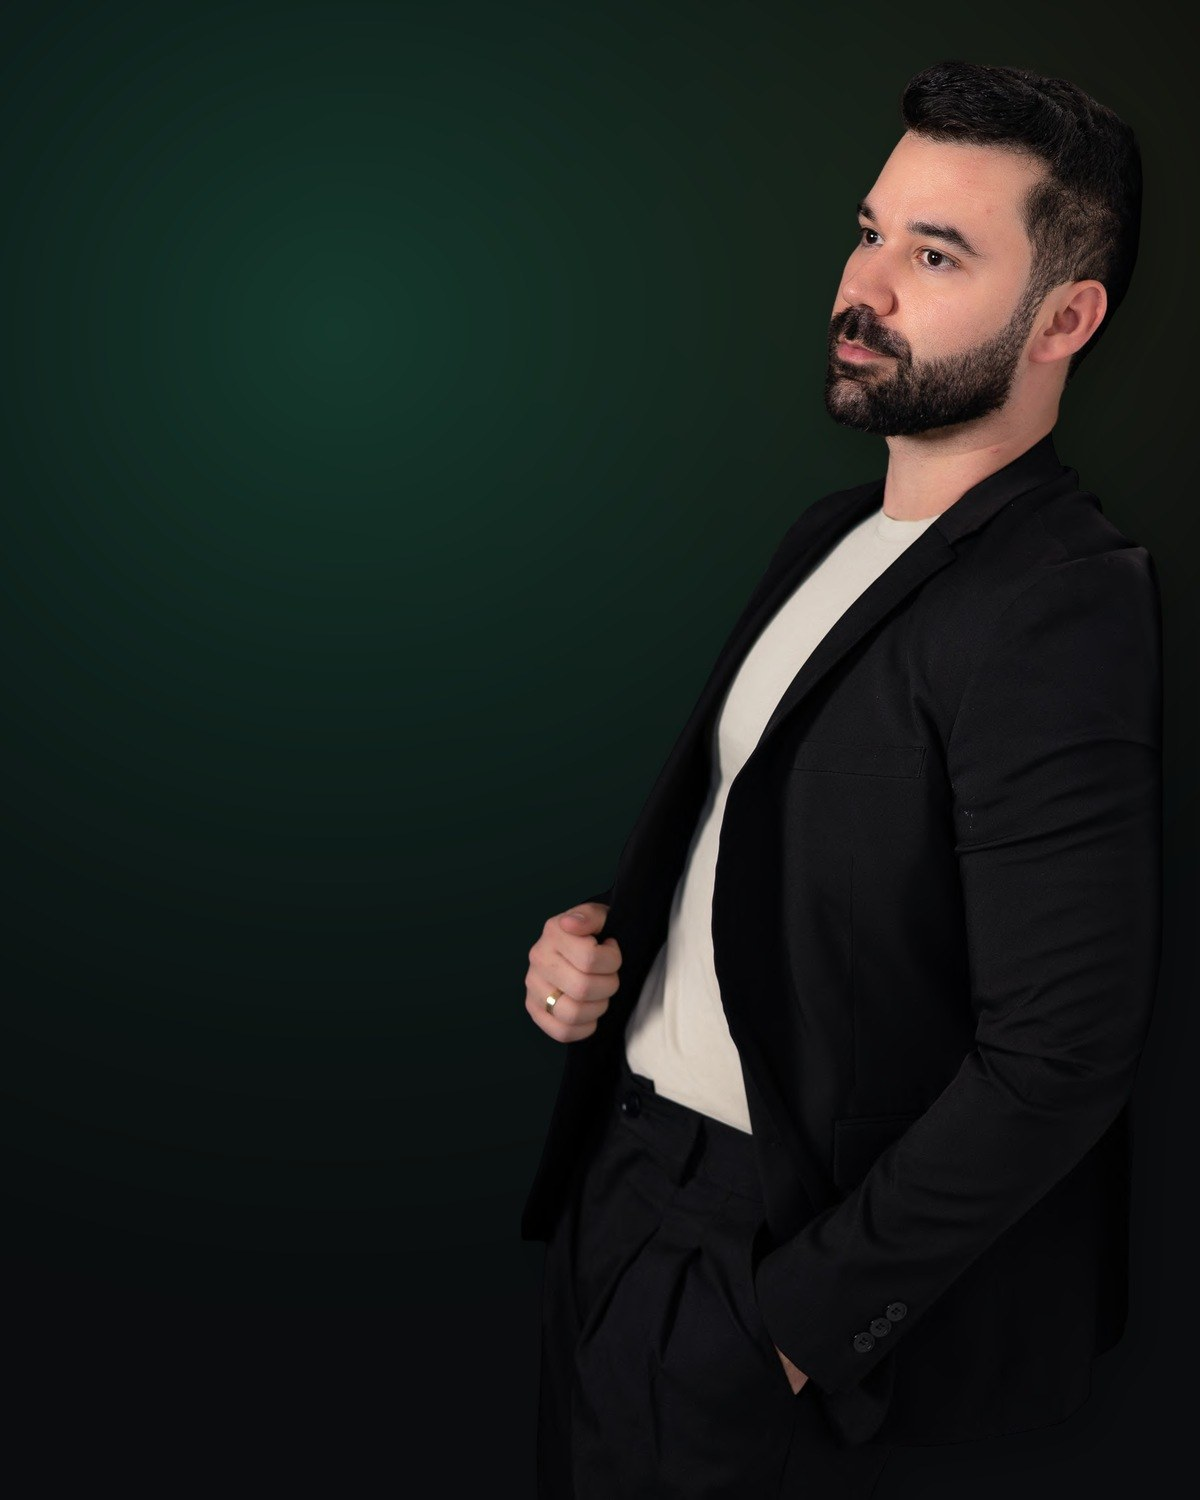
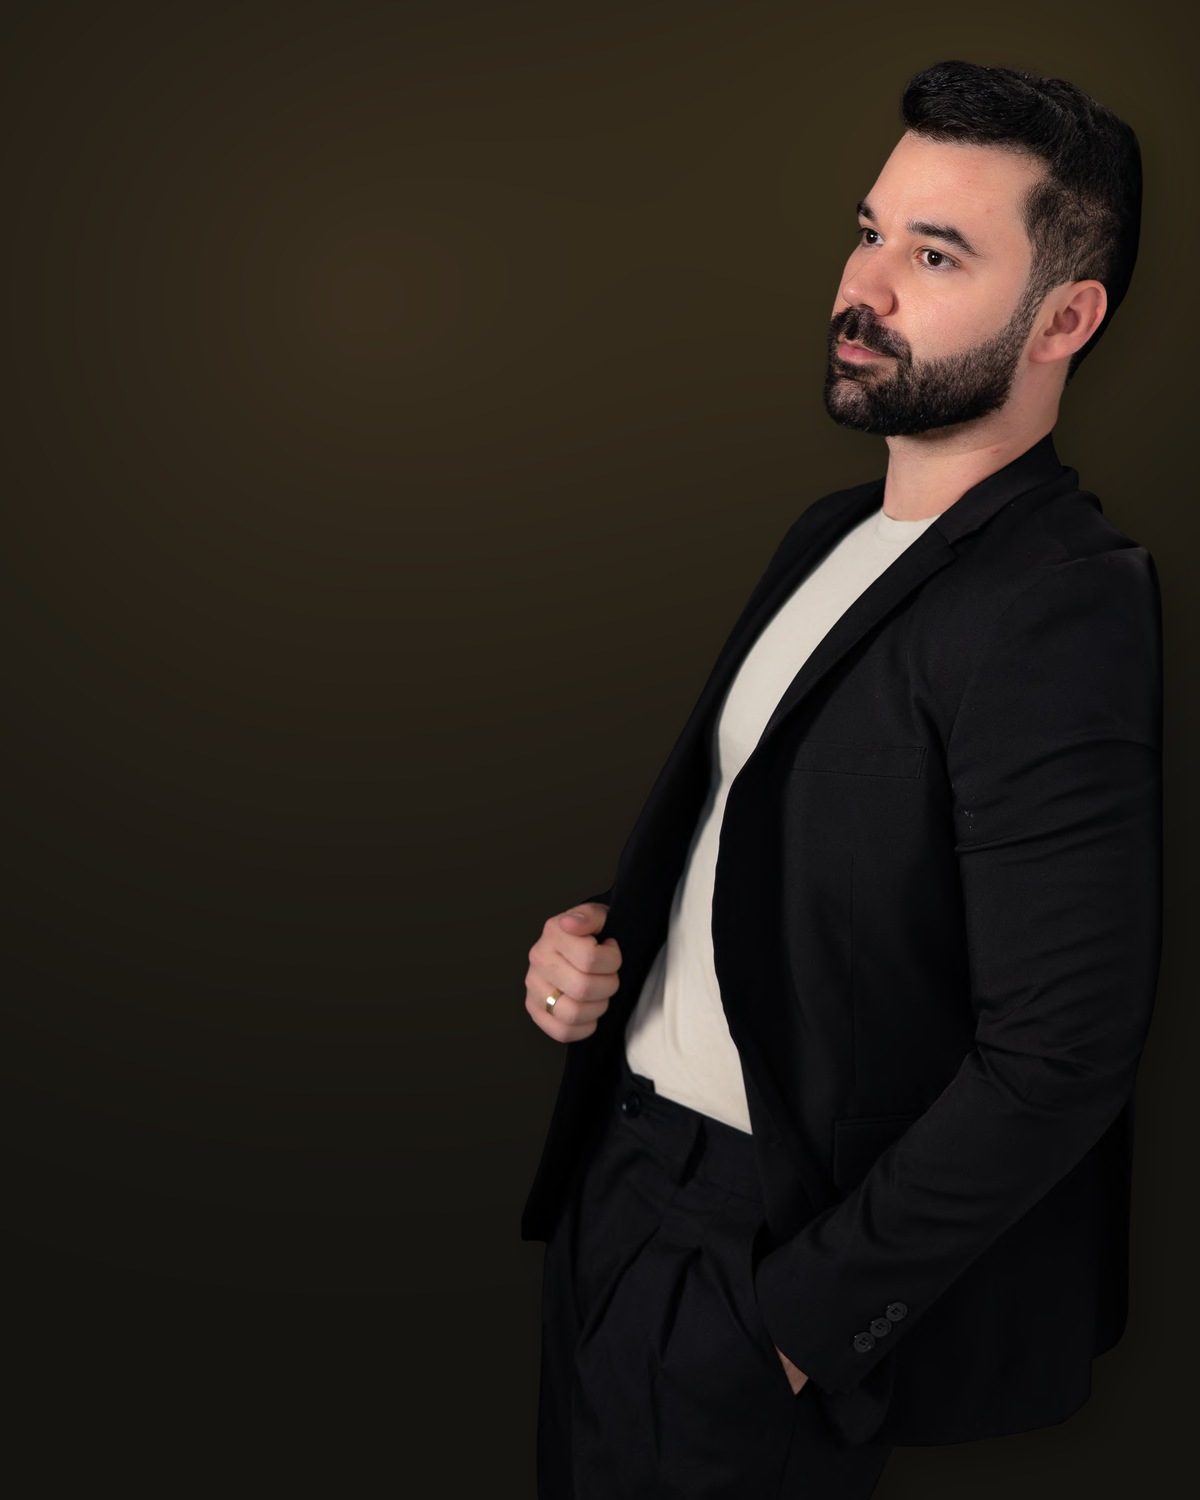
Redesenha identidade visual: paleta editorial papel/dourado + tipografia do PDF
Substitui a paleta escura "liquid glass" (emerald/charcoal) pela identidade
visual pedida pelo profissional, ecoando o próprio portfólio em PDF:

- Cores: #141310 (preto quente), #FBF9F5 (papel), #EDE6D9 (nude), #8A8172
  (cinza-pedra) e #A9803F (dourado accent).
- Tipografia: Playfair Display itálico para títulos editoriais, Bebas Neue
  para rótulos/seções em caixa alta, Montserrat para o corpo do texto.
- Recompõe a foto do Hero sobre um fundo em gradiente dourado/preto (antes
  emerald) para combinar com a nova paleta.
- Ajusta o efeito "liquid glass" para um vidro fosco claro sobre o fundo
  papel, com uma variante escura para legendas sobre fotos.
- Corrige contraste da legenda da foto do Hero (estava ilegível sobre a
  foto escura com o glass claro).

Claude-Session: https://claude.ai/code/session_01JvV8Di5439z6CiwqA61Wmz

diff --git a/src/app/globals.css b/src/app/globals.css
@@ -24,6 +24,7 @@
 
   --font-sans: var(--font-sans);
   --font-display: var(--font-display);
+  --font-label: var(--font-label);
 
   --radius-sm: calc(var(--radius) - 6px);
   --radius-md: calc(var(--radius) - 2px);
@@ -35,24 +36,24 @@
 :root {
   --radius: 1rem;
 
-  /* Deep clinical charcoal base with an emerald "liquid glass" accent */
-  --background: #0a0c0d;
-  --foreground: #f3f1ea;
+  /* Editorial paper palette, echoing the professional's own portfolio */
+  --background: #fbf9f5; /* papel */
+  --foreground: #141310; /* preto quente */
 
-  --card: #121616;
-  --card-foreground: #f3f1ea;
+  --card: #ede6d9; /* nude */
+  --card-foreground: #141310;
 
-  --muted: #171b1b;
-  --muted-foreground: #a3aca8;
+  --muted: #f3efe6;
+  --muted-foreground: #8a8172; /* cinza-pedra */
 
-  --primary: #35d399;
-  --primary-foreground: #06110c;
+  --primary: #a9803f; /* dourado accent */
+  --primary-foreground: #141310;
 
-  --accent: #c9a227;
-  --accent-foreground: #1a1204;
+  --accent: #a9803f;
+  --accent-foreground: #141310;
 
-  --border: rgba(255, 255, 255, 0.09);
-  --ring: rgba(53, 211, 153, 0.5);
+  --border: rgba(20, 19, 16, 0.1);
+  --ring: rgba(169, 128, 63, 0.45);
 
   --whatsapp: #25d366;
   --whatsapp-foreground: #06210f;
@@ -71,44 +72,50 @@ body {
 }
 
 @layer utilities {
-  /* Liquid-glass surface: frosted, translucent, soft inner highlight */
+  /* Liquid-glass surface: frosted paper, translucent, soft inner highlight */
   .glass {
     background: linear-gradient(
       to bottom right,
-      rgba(255, 255, 255, 0.08),
-      rgba(255, 255, 255, 0.02)
-    );
-    backdrop-filter: blur(20px) saturate(140%);
-    -webkit-backdrop-filter: blur(20px) saturate(140%);
-    border: 1px solid rgba(255, 255, 255, 0.12);
-    box-shadow:
-      0 1px 0 0 rgba(255, 255, 255, 0.08) inset,
-      0 8px 30px rgba(0, 0, 0, 0.35);
-  }
-
-  .glass-light {
-    background: linear-gradient(
-      to bottom right,
-      rgba(255, 255, 255, 0.7),
-      rgba(255, 255, 255, 0.35)
+      rgba(255, 255, 255, 0.72),
+      rgba(255, 255, 255, 0.38)
     );
     backdrop-filter: blur(20px) saturate(160%);
     -webkit-backdrop-filter: blur(20px) saturate(160%);
-    border: 1px solid rgba(255, 255, 255, 0.6);
+    border: 1px solid rgba(20, 19, 16, 0.08);
     box-shadow:
-      0 1px 0 0 rgba(255, 255, 255, 0.8) inset,
-      0 8px 30px rgba(20, 30, 25, 0.08);
+      0 1px 0 0 rgba(255, 255, 255, 0.9) inset,
+      0 8px 30px rgba(20, 19, 16, 0.07);
+  }
+
+  .glass-dark {
+    background: linear-gradient(
+      to bottom right,
+      rgba(20, 19, 16, 0.85),
+      rgba(20, 19, 16, 0.65)
+    );
+    backdrop-filter: blur(20px) saturate(140%);
+    -webkit-backdrop-filter: blur(20px) saturate(140%);
+    border: 1px solid rgba(255, 255, 255, 0.1);
+    box-shadow:
+      0 1px 0 0 rgba(255, 255, 255, 0.06) inset,
+      0 8px 30px rgba(20, 19, 16, 0.35);
   }
 
   .text-balance {
     text-wrap: balance;
   }
 
+  .label-caps {
+    font-family: var(--font-label);
+    text-transform: uppercase;
+    letter-spacing: 0.08em;
+  }
+
   .mesh-glow {
     background-image:
-      radial-gradient(60% 50% at 15% 10%, rgba(53, 211, 153, 0.22), transparent 60%),
-      radial-gradient(45% 40% at 90% 20%, rgba(201, 162, 39, 0.14), transparent 60%),
-      radial-gradient(70% 60% at 50% 100%, rgba(53, 211, 153, 0.1), transparent 60%);
+      radial-gradient(60% 50% at 15% 10%, rgba(169, 128, 63, 0.16), transparent 60%),
+      radial-gradient(45% 40% at 90% 20%, rgba(169, 128, 63, 0.1), transparent 60%),
+      radial-gradient(70% 60% at 50% 100%, rgba(20, 19, 16, 0.05), transparent 60%);
   }
 }
 

diff --git a/src/app/layout.tsx b/src/app/layout.tsx
@@ -1,17 +1,24 @@
 import type { Metadata, Viewport } from "next";
-import { Fraunces, Manrope } from "next/font/google";
+import { Bebas_Neue, Montserrat, Playfair_Display } from "next/font/google";
 
 import { professional } from "@/content/site-data";
 import "./globals.css";
 
-const manrope = Manrope({
+const montserrat = Montserrat({
   variable: "--font-sans",
   subsets: ["latin"],
 });
 
-const fraunces = Fraunces({
+const playfair = Playfair_Display({
   variable: "--font-display",
   subsets: ["latin"],
+  style: ["normal", "italic"],
+});
+
+const bebasNeue = Bebas_Neue({
+  variable: "--font-label",
+  subsets: ["latin"],
+  weight: "400",
 });
 
 const siteUrl = "https://www.drjosecarlosfontenele.com.br"; // TODO: atualizar para o domínio real
@@ -42,7 +49,7 @@ export const metadata: Metadata = {
     siteName: professional.name,
     title: `${professional.name} | ${professional.role}`,
     description: professional.shortBio,
-    images: [{ url: "/images/hero-portrait.svg", width: 900, height: 1125 }],
+    images: [{ url: "/images/hero-portrait.jpg", width: 1200, height: 1500 }],
   },
   twitter: {
     card: "summary_large_image",
@@ -53,7 +60,7 @@ export const metadata: Metadata = {
 };
 
 export const viewport: Viewport = {
-  themeColor: "#0a0c0d",
+  themeColor: "#FBF9F5",
   width: "device-width",
   initialScale: 1,
 };
@@ -63,7 +70,7 @@ const jsonLd = {
   "@type": "MedicalBusiness",
   name: professional.location.clinicName,
   description: professional.shortBio,
-  image: `${siteUrl}/images/hero-portrait.svg`,
+  image: `${siteUrl}/images/hero-portrait.jpg`,
   url: siteUrl,
   telephone: professional.phoneDisplay,
   email: professional.email,
@@ -87,7 +94,7 @@ export default function RootLayout({ children }: LayoutProps<"/">) {
   return (
     <html
       lang="pt-BR"
-      className={`${manrope.variable} ${fraunces.variable} h-full antialiased`}
+      className={`${montserrat.variable} ${playfair.variable} ${bebasNeue.variable} h-full antialiased`}
     >
       <body className="min-h-full flex flex-col">
         <script

diff --git a/src/components/sections/hero.tsx b/src/components/sections/hero.tsx
@@ -18,7 +18,7 @@ export function Hero() {
             Biomedicina especializada em Tricologia
           </Badge>
 
-          <h1 className="mt-6 text-balance font-display text-4xl leading-[1.08] font-semibold tracking-tight text-foreground sm:text-5xl lg:text-6xl">
+          <h1 className="mt-6 text-balance font-display text-4xl leading-[1.1] font-normal tracking-tight text-foreground italic sm:text-5xl lg:text-6xl">
             {professional.tagline}
           </h1>
 
@@ -78,17 +78,17 @@ export function Hero() {
             />
             <div className="absolute inset-0 bg-gradient-to-t from-black/50 via-transparent to-transparent" />
 
-            <div className="glass absolute bottom-4 left-4 right-4 flex items-center justify-between rounded-2xl px-4 py-3">
+            <div className="glass-dark absolute bottom-4 left-4 right-4 flex items-center justify-between rounded-2xl px-4 py-3">
               <div>
-                <p className="text-sm font-semibold text-foreground">{professional.name}</p>
-                <p className="text-xs text-muted-foreground">{professional.role}</p>
+                <p className="text-sm font-semibold text-white">{professional.name}</p>
+                <p className="text-xs text-white/65">{professional.role}</p>
               </div>
-              <span className="flex h-2.5 w-2.5 rounded-full bg-primary shadow-[0_0_12px_2px_rgba(53,211,153,0.6)]" />
+              <span className="flex h-2.5 w-2.5 rounded-full bg-primary shadow-[0_0_12px_2px_rgba(169,128,63,0.6)]" />
             </div>
           </div>
 
           <div className="glass absolute -top-5 -right-5 hidden rounded-2xl px-4 py-3 sm:block">
-            <p className="text-xs text-muted-foreground">Diagnóstico com</p>
+            <p className="label-caps text-[0.65rem] text-muted-foreground">Diagnóstico com</p>
             <p className="text-sm font-semibold text-foreground">Tricoscopia Digital</p>
           </div>
         </div>

diff --git a/src/components/sections/about.tsx b/src/components/sections/about.tsx
@@ -8,10 +8,10 @@ export function About() {
       <div className="relative mx-auto grid max-w-6xl gap-14 px-4 sm:px-6 lg:grid-cols-[0.9fr_1.1fr] lg:items-start">
         <div className="lg:sticky lg:top-28">
           <Badge variant="primary">Sobre o profissional</Badge>
-          <h2 className="mt-6 text-balance font-display text-3xl font-semibold tracking-tight text-foreground sm:text-4xl">
+          <h2 className="mt-6 text-balance font-display text-3xl font-normal tracking-tight text-foreground italic sm:text-4xl">
             {professional.name}
           </h2>
-          <p className="mt-1 text-muted-foreground">{professional.role} · {professional.crbm}</p>
+          <p className="label-caps mt-2 text-xs text-muted-foreground">{professional.role} · {professional.crbm}</p>
 
           <div className="mt-8 space-y-4 text-muted-foreground">
             {professional.longBio
@@ -25,7 +25,7 @@ export function About() {
         </div>
 
         <div>
-          <p className="text-sm font-medium tracking-wide text-muted-foreground uppercase">
+          <p className="label-caps text-sm text-muted-foreground">
             Como funciona o atendimento
           </p>
           <div className="mt-4 grid gap-4 sm:grid-cols-2">
@@ -34,7 +34,7 @@ export function About() {
                 <span className="font-display text-2xl font-semibold text-primary">
                   {step.step}
                 </span>
-                <h3 className="mt-3 text-base font-semibold text-foreground">
+                <h3 className="label-caps mt-3 text-lg text-foreground">
                   {step.title}
                 </h3>
                 <p className="mt-2 text-sm leading-relaxed text-muted-foreground">

diff --git a/src/components/sections/footer.tsx b/src/components/sections/footer.tsx
@@ -30,7 +30,7 @@ export function Footer() {
               href={getWhatsappUrl()}
               target="_blank"
               rel="noopener noreferrer"
-              className="glass mt-6 inline-flex items-center gap-2 rounded-full px-4 py-2.5 text-sm font-medium text-foreground transition-colors hover:bg-white/[0.06]"
+              className="glass mt-6 inline-flex items-center gap-2 rounded-full px-4 py-2.5 text-sm font-medium text-foreground transition-colors hover:bg-foreground/[0.04]"
             >
               <MessageCircle className="size-4 text-whatsapp" />
               Falar no WhatsApp
@@ -38,7 +38,7 @@ export function Footer() {
           </div>
 
           <div>
-            <h3 className="text-sm font-semibold text-foreground">Navegação</h3>
+            <h3 className="label-caps text-sm text-foreground">Navegação</h3>
             <ul className="mt-4 space-y-2.5">
               {navLinks.map((link) => (
                 <li key={link.href}>
@@ -54,7 +54,7 @@ export function Footer() {
           </div>
 
           <div>
-            <h3 className="text-sm font-semibold text-foreground">Contato</h3>
+            <h3 className="label-caps text-sm text-foreground">Contato</h3>
             <ul className="mt-4 space-y-3">
               <li className="flex items-start gap-2.5 text-sm text-muted-foreground">
                 <Phone className="mt-0.5 size-4 shrink-0 text-primary" />

diff --git a/src/components/ui/expanding-cards.tsx b/src/components/ui/expanding-cards.tsx
@@ -95,7 +95,7 @@ export const ExpandingCards = React.forwardRef<
           <div className="absolute inset-0 bg-gradient-to-t from-black/85 via-black/40 to-transparent" />
 
           <article className="absolute inset-0 flex flex-col justify-end gap-2 p-5">
-            <h3 className="hidden origin-left rotate-90 text-sm font-medium tracking-wider text-white/80 uppercase opacity-100 transition-all duration-300 ease-out group-data-[active=true]:opacity-0 md:block">
+            <h3 className="label-caps hidden origin-left rotate-90 text-base tracking-wider text-white/80 opacity-100 transition-all duration-300 ease-out group-data-[active=true]:opacity-0 md:block">
               {item.title}
             </h3>
 
@@ -103,7 +103,7 @@ export const ExpandingCards = React.forwardRef<
               {item.icon}
             </div>
 
-            <h3 className="text-xl font-semibold text-white opacity-0 transition-all delay-150 duration-300 ease-out group-data-[active=true]:opacity-100">
+            <h3 className="label-caps text-2xl text-white opacity-0 transition-all delay-150 duration-300 ease-out group-data-[active=true]:opacity-100">
               {item.title}
             </h3>
 

diff --git a/src/components/ui/expand-map.tsx b/src/components/ui/expand-map.tsx
@@ -214,12 +214,12 @@ export function LocationMap({
                   fill="none"
                   className="drop-shadow-lg"
                   style={{
-                    filter: "drop-shadow(0 0 10px rgba(53, 211, 153, 0.5))",
+                    filter: "drop-shadow(0 0 10px rgba(169, 128, 63, 0.5))",
                   }}
                 >
                   <path
                     d="M12 2C8.13 2 5 5.13 5 9c0 5.25 7 13 7 13s7-7.75 7-13c0-3.87-3.13-7-7-7z"
-                    fill="#35D399"
+                    fill="#A9803F"
                   />
                   <circle cx="12" cy="9" r="2.5" className="fill-background" />
                 </svg>
@@ -273,8 +273,8 @@ export function LocationMap({
                 className="text-primary"
                 animate={{
                   filter: isHovered
-                    ? "drop-shadow(0 0 8px rgba(53, 211, 153, 0.6))"
-                    : "drop-shadow(0 0 4px rgba(53, 211, 153, 0.3))",
+                    ? "drop-shadow(0 0 8px rgba(169, 128, 63, 0.6))"
+                    : "drop-shadow(0 0 4px rgba(169, 128, 63, 0.3))",
                 }}
                 transition={{ duration: 0.3 }}
               >

diff --git a/src/components/ui/button.tsx b/src/components/ui/button.tsx
@@ -10,13 +10,13 @@ const buttonVariants = cva(
     variants: {
       variant: {
         default:
-          "bg-primary text-primary-foreground shadow-[0_0_0_1px_rgba(255,255,255,0.06)] hover:brightness-110",
+          "bg-primary text-primary-foreground shadow-[0_0_0_1px_rgba(20,19,16,0.06)] hover:brightness-110",
         whatsapp:
-          "bg-whatsapp text-whatsapp-foreground shadow-lg shadow-[#25d366]/20 hover:brightness-110",
-        glass: "glass text-foreground hover:bg-white/[0.06]",
+          "bg-whatsapp text-whatsapp-foreground shadow-lg shadow-[#25d366]/25 hover:brightness-110",
+        glass: "glass text-foreground hover:bg-foreground/[0.04]",
         outline:
-          "border border-border bg-transparent text-foreground hover:bg-white/5",
-        ghost: "bg-transparent hover:bg-white/5 text-foreground",
+          "border border-border bg-transparent text-foreground hover:bg-foreground/5",
+        ghost: "bg-transparent hover:bg-foreground/5 text-foreground",
       },
       size: {
         default: "h-11 px-6 py-2",

diff --git a/src/components/sections/navbar.tsx b/src/components/sections/navbar.tsx
@@ -46,7 +46,7 @@ export function Navbar() {
               <a
                 key={link.href}
                 href={link.href}
-                className="rounded-full px-3.5 py-2 text-sm text-muted-foreground transition-colors hover:bg-white/5 hover:text-foreground"
+                className="label-caps rounded-full px-3.5 py-2 text-xs tracking-wider text-muted-foreground transition-colors hover:bg-foreground/5 hover:text-foreground"
               >
                 {link.label}
               </a>
@@ -81,7 +81,7 @@ export function Navbar() {
                 key={link.href}
                 href={link.href}
                 onClick={() => setOpen(false)}
-                className="rounded-xl px-4 py-3 text-sm text-foreground hover:bg-white/5"
+                className="label-caps rounded-xl px-4 py-3 text-sm tracking-wider text-foreground hover:bg-foreground/5"
               >
                 {link.label}
               </a>

diff --git a/src/components/ui/badge.tsx b/src/components/ui/badge.tsx
@@ -4,13 +4,13 @@ import { cva, type VariantProps } from "class-variance-authority";
 import { cn } from "@/lib/utils";
 
 const badgeVariants = cva(
-  "inline-flex items-center gap-1.5 rounded-full border px-3 py-1 text-xs font-medium tracking-wide",
+  "label-caps inline-flex items-center gap-1.5 rounded-full border px-3.5 py-1.5 text-xs font-normal tracking-widest",
   {
     variants: {
       variant: {
-        default: "glass border-white/15 text-foreground",
-        primary: "border-primary/30 bg-primary/10 text-primary",
-        accent: "border-accent/30 bg-accent/10 text-accent",
+        default: "glass border-foreground/10 text-foreground",
+        primary: "border-primary/35 bg-primary/10 text-primary",
+        accent: "border-foreground/15 bg-foreground/5 text-foreground",
       },
     },
     defaultVariants: {

diff --git a/src/components/sections/before-after.tsx b/src/components/sections/before-after.tsx
@@ -12,7 +12,7 @@ export function BeforeAfter() {
             <ArrowLeftRight className="size-3.5" />
             Resultados reais
           </Badge>
-          <h2 className="mt-6 text-balance font-display text-3xl font-semibold tracking-tight text-foreground sm:text-4xl">
+          <h2 className="mt-6 text-balance font-display text-3xl font-normal tracking-tight text-foreground italic sm:text-4xl">
             Evolução acompanhada de perto, do diagnóstico ao resultado
           </h2>
           <p className="mt-4 text-muted-foreground">

diff --git a/src/components/sections/procedures.tsx b/src/components/sections/procedures.tsx
@@ -30,7 +30,7 @@ export function Procedures() {
           <Badge variant="primary" className="mx-auto">
             Procedimentos
           </Badge>
-          <h2 className="mt-6 text-balance font-display text-3xl font-semibold tracking-tight text-foreground sm:text-4xl">
+          <h2 className="label-caps mt-6 text-balance text-4xl text-foreground sm:text-5xl">
             Protocolos tricológicos personalizados
           </h2>
           <p className="mt-4 text-muted-foreground">
